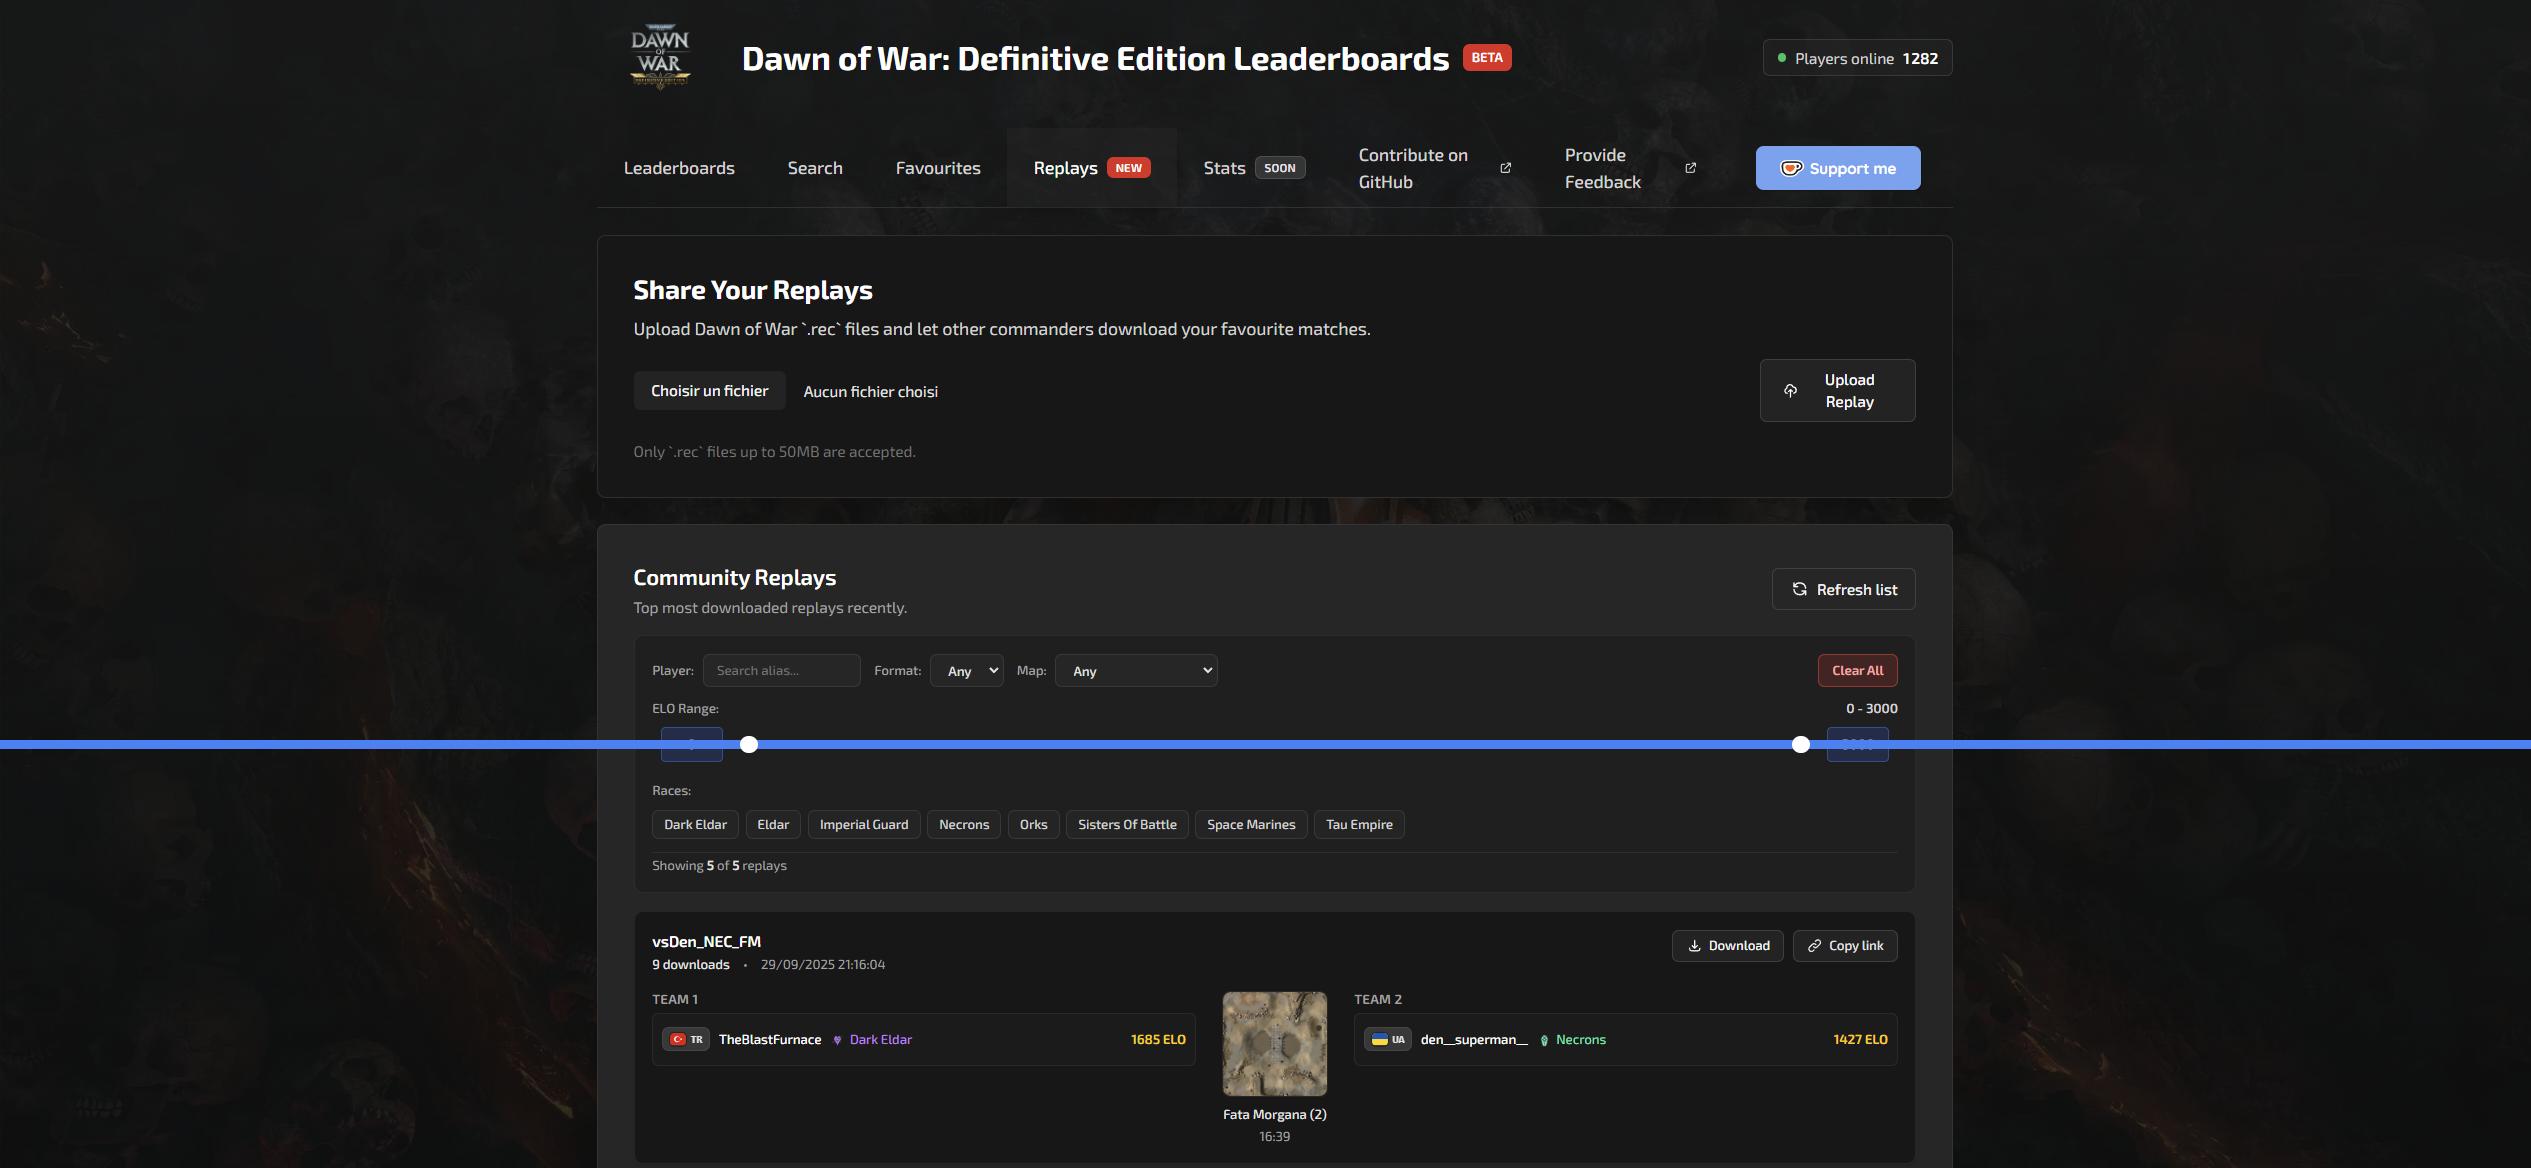
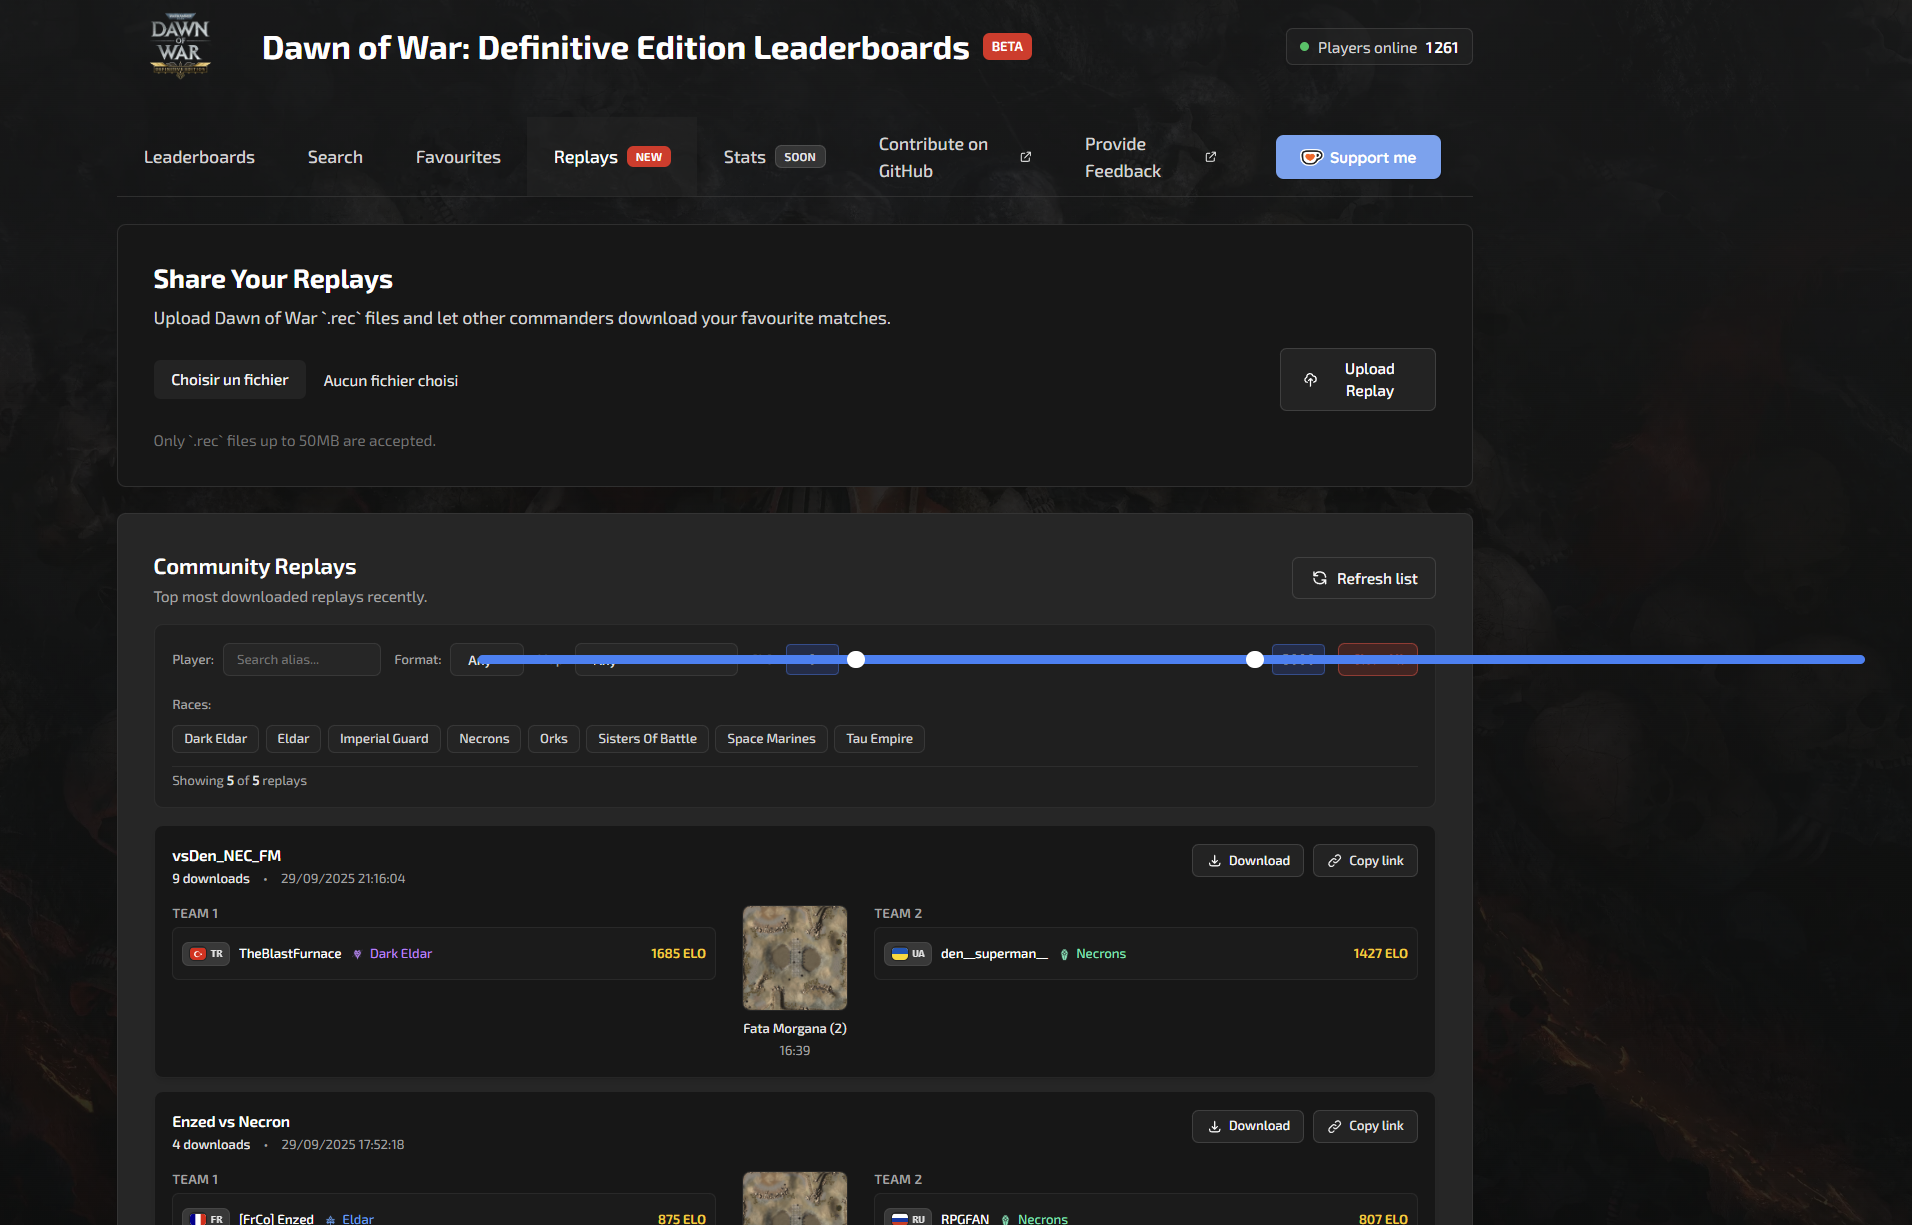
fix(replays): completely fix ELO slider glitch with overflow hidden
- Add overflow-hidden to slider container to clip any escaping elements
- Change from inset positioning to explicit top/left positioning
- Set range track height to 0 instead of just transparent
- Use h-full/w-full for proper containment within parent

diff --git a/src/app/_components/ReplaysTab.tsx b/src/app/_components/ReplaysTab.tsx
@@ -732,13 +732,13 @@ const ReplaysTab = ({ onPlayerClick }: ReplaysTabProps) => {
                   </div>
 
                   {/* Dual slider container */}
-                  <div className="relative flex-1 h-2">
+                  <div className="relative flex-1 h-2 overflow-hidden">
                     {/* Track background */}
-                    <div className="absolute inset-0 w-full h-2 bg-neutral-700 rounded-full" />
+                    <div className="absolute top-0 left-0 w-full h-full bg-neutral-700 rounded-full" />
 
                     {/* Active range highlight */}
                     <div
-                      className="absolute inset-y-0 h-2 bg-blue-500 rounded-full"
+                      className="absolute top-0 h-full bg-blue-500 rounded-full"
                       style={{
                         left: `${((eloRange.min - eloLimits.min) / (eloLimits.max - eloLimits.min)) * 100}%`,
                         right: `${100 - ((eloRange.max - eloLimits.min) / (eloLimits.max - eloLimits.min)) * 100}%`
@@ -753,7 +753,7 @@ const ReplaysTab = ({ onPlayerClick }: ReplaysTabProps) => {
                       step={50}
                       value={eloRange.min}
                       onChange={(e) => setEloRange({ ...eloRange, min: Math.min(parseInt(e.target.value), eloRange.max) })}
-                      className="absolute inset-0 w-full h-2 appearance-none bg-transparent pointer-events-none [&::-webkit-slider-runnable-track]:appearance-none [&::-webkit-slider-runnable-track]:bg-transparent [&::-webkit-slider-thumb]:pointer-events-auto [&::-webkit-slider-thumb]:appearance-none [&::-webkit-slider-thumb]:w-4 [&::-webkit-slider-thumb]:h-4 [&::-webkit-slider-thumb]:rounded-full [&::-webkit-slider-thumb]:bg-white [&::-webkit-slider-thumb]:border-2 [&::-webkit-slider-thumb]:border-blue-500 [&::-webkit-slider-thumb]:cursor-pointer [&::-moz-range-track]:appearance-none [&::-moz-range-track]:bg-transparent [&::-moz-range-thumb]:pointer-events-auto [&::-moz-range-thumb]:w-4 [&::-moz-range-thumb]:h-4 [&::-moz-range-thumb]:rounded-full [&::-moz-range-thumb]:bg-white [&::-moz-range-thumb]:border-2 [&::-moz-range-thumb]:border-blue-500 [&::-moz-range-thumb]:cursor-pointer [&::-moz-range-thumb]:border-0"
+                      className="absolute top-0 left-0 w-full h-full appearance-none bg-transparent pointer-events-none [&::-webkit-slider-runnable-track]:h-0 [&::-webkit-slider-runnable-track]:bg-transparent [&::-webkit-slider-thumb]:pointer-events-auto [&::-webkit-slider-thumb]:appearance-none [&::-webkit-slider-thumb]:w-4 [&::-webkit-slider-thumb]:h-4 [&::-webkit-slider-thumb]:rounded-full [&::-webkit-slider-thumb]:bg-white [&::-webkit-slider-thumb]:border-2 [&::-webkit-slider-thumb]:border-blue-500 [&::-webkit-slider-thumb]:cursor-pointer [&::-moz-range-track]:h-0 [&::-moz-range-track]:bg-transparent [&::-moz-range-thumb]:pointer-events-auto [&::-moz-range-thumb]:w-4 [&::-moz-range-thumb]:h-4 [&::-moz-range-thumb]:rounded-full [&::-moz-range-thumb]:bg-white [&::-moz-range-thumb]:border-2 [&::-moz-range-thumb]:border-blue-500 [&::-moz-range-thumb]:cursor-pointer [&::-moz-range-thumb]:border-0"
                     />
 
                     {/* Max slider */}
@@ -764,7 +764,7 @@ const ReplaysTab = ({ onPlayerClick }: ReplaysTabProps) => {
                       step={50}
                       value={eloRange.max}
                       onChange={(e) => setEloRange({ ...eloRange, max: Math.max(parseInt(e.target.value), eloRange.min) })}
-                      className="absolute inset-0 w-full h-2 appearance-none bg-transparent pointer-events-none [&::-webkit-slider-runnable-track]:appearance-none [&::-webkit-slider-runnable-track]:bg-transparent [&::-webkit-slider-thumb]:pointer-events-auto [&::-webkit-slider-thumb]:appearance-none [&::-webkit-slider-thumb]:w-4 [&::-webkit-slider-thumb]:h-4 [&::-webkit-slider-thumb]:rounded-full [&::-webkit-slider-thumb]:bg-white [&::-webkit-slider-thumb]:border-2 [&::-webkit-slider-thumb]:border-blue-500 [&::-webkit-slider-thumb]:cursor-pointer [&::-moz-range-track]:appearance-none [&::-moz-range-track]:bg-transparent [&::-moz-range-thumb]:pointer-events-auto [&::-moz-range-thumb]:w-4 [&::-moz-range-thumb]:h-4 [&::-moz-range-thumb]:rounded-full [&::-moz-range-thumb]:bg-white [&::-moz-range-thumb]:border-2 [&::-moz-range-thumb]:border-blue-500 [&::-moz-range-thumb]:cursor-pointer [&::-moz-range-thumb]:border-0"
+                      className="absolute top-0 left-0 w-full h-full appearance-none bg-transparent pointer-events-none [&::-webkit-slider-runnable-track]:h-0 [&::-webkit-slider-runnable-track]:bg-transparent [&::-webkit-slider-thumb]:pointer-events-auto [&::-webkit-slider-thumb]:appearance-none [&::-webkit-slider-thumb]:w-4 [&::-webkit-slider-thumb]:h-4 [&::-webkit-slider-thumb]:rounded-full [&::-webkit-slider-thumb]:bg-white [&::-webkit-slider-thumb]:border-2 [&::-webkit-slider-thumb]:border-blue-500 [&::-webkit-slider-thumb]:cursor-pointer [&::-moz-range-track]:h-0 [&::-moz-range-track]:bg-transparent [&::-moz-range-thumb]:pointer-events-auto [&::-moz-range-thumb]:w-4 [&::-moz-range-thumb]:h-4 [&::-moz-range-thumb]:rounded-full [&::-moz-range-thumb]:bg-white [&::-moz-range-thumb]:border-2 [&::-moz-range-thumb]:border-blue-500 [&::-moz-range-thumb]:cursor-pointer [&::-moz-range-thumb]:border-0"
                     />
                   </div>
 
